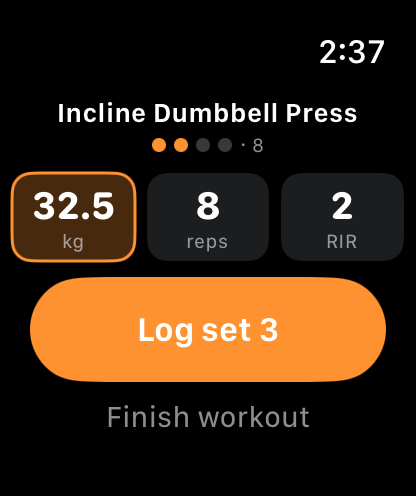
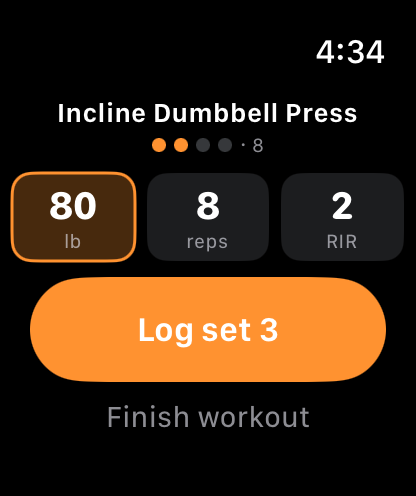
README: point at refreshed white/orange screenshots, fix removed workout_complete link

Changed region(s): [[0.0625, 0.3629, 0.2812, 0.5141], [0.75, 0.0605, 0.9375, 0.1512]]

diff --git a/README.md b/README.md
@@ -56,11 +56,11 @@ More detail: [docs/ARCHITECTURE.md](docs/ARCHITECTURE.md)
 
 | Workout summary | Recovery | Exercise catalog |
 |:---:|:---:|:---:|
-| ![Workout complete summary](website/screens/workout_complete.png) | ![Stress and muscle-freshness analytics](website/screens/stress_analytics.png) | ![Exercise catalog](website/screens/exercise_catalog.png) |
+| ![Personal records with projected next PR](website/screens/records.png) | ![Stress and muscle-freshness analytics](website/screens/stress_analytics.png) | ![Exercise catalog](website/screens/exercise_catalog.png) |
 
 | Cardio | Customization |
 |:---:|:---:|
-| <img src="docs/screenshots/running_page.png" alt="Cardio tab" width="270"> | <img src="website/screens/customization.png" alt="Accent and appearance customization" width="270"> |
+| <img src="website/screens/cardio.png" alt="Cardio tab" width="270"> | <img src="website/screens/customization.png" alt="Accent and appearance customization" width="270"> |
 
 ### Apple Watch
 
